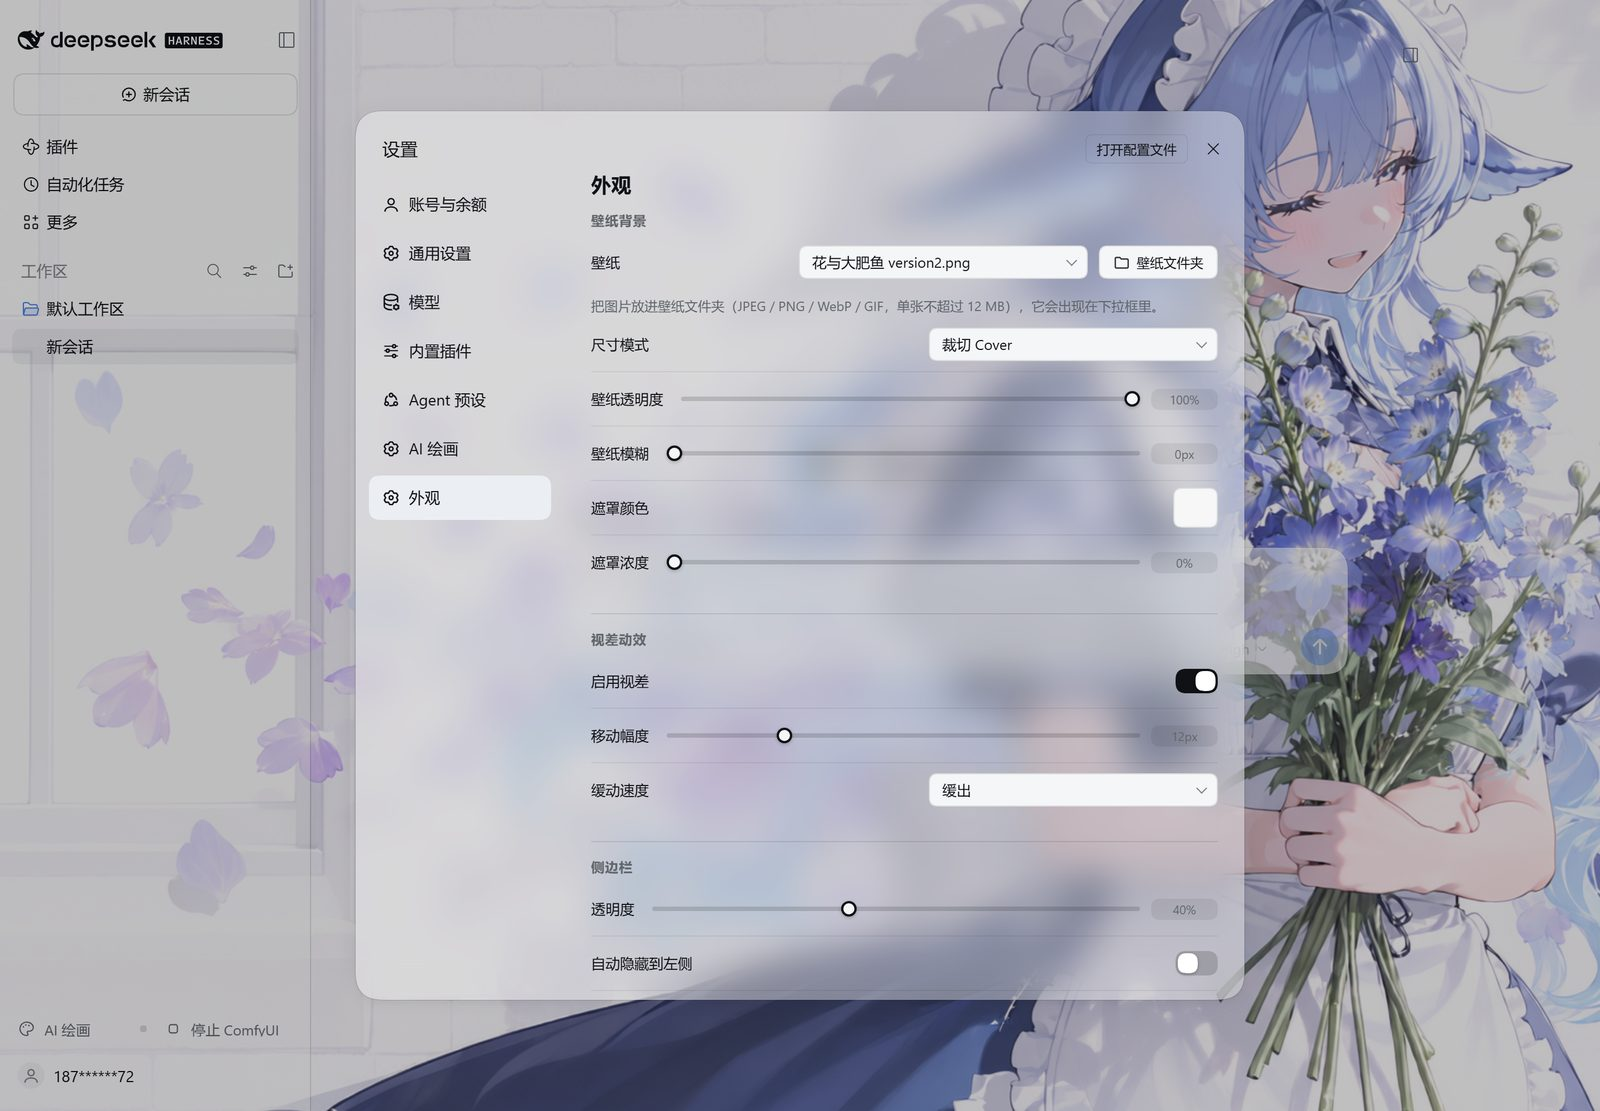
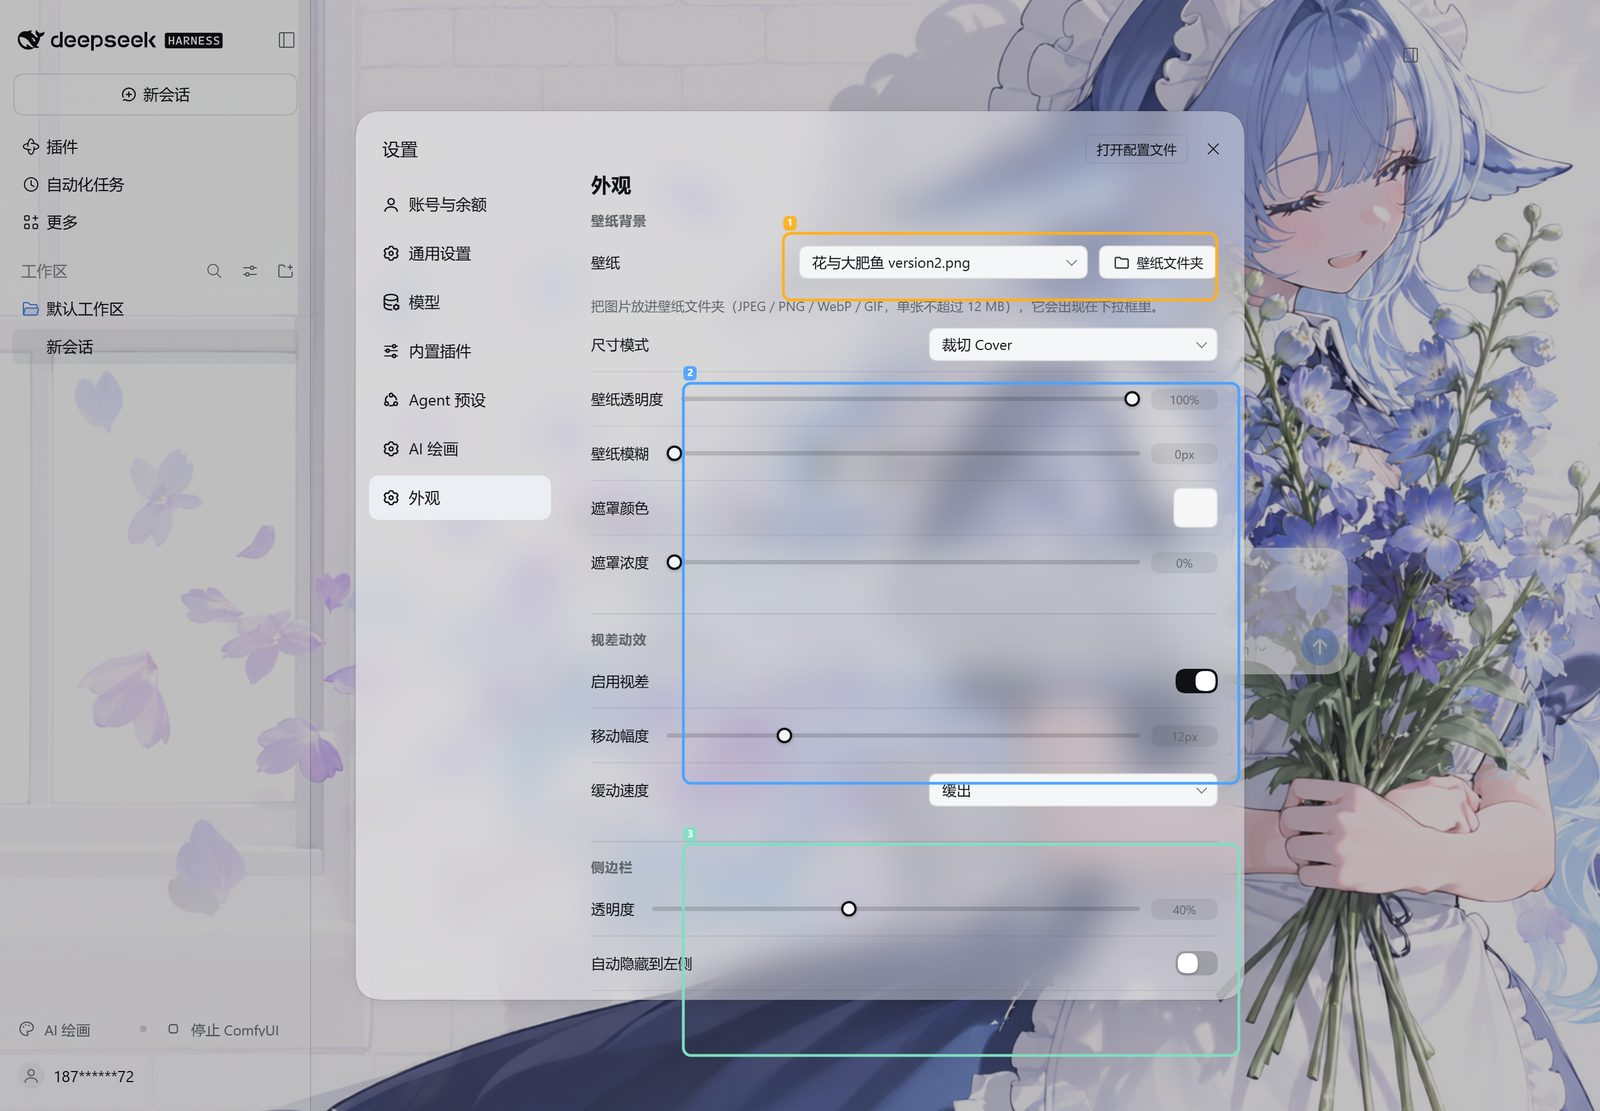
docs: hero image, why-this-plugin comparison and annotated screenshots

diff --git a/README.md b/README.md
@@ -6,6 +6,19 @@ English | [简体中文](README.zh-CN.md)
 
 The DSH web interface ships with one plain look. This bundle adds an "Appearance (外观)" page to Settings where you can put a wallpaper behind the app, make the conversation card, composer and settings panel translucent with a backdrop blur, tune the sidebar, and switch on a pointer-following parallax and an auto-hiding sidebar. It is a local UI bundle: the only server it talks to is your own DSH instance, serving your own images back to the browser.
 
+![dsh-ui-appearance](docs/preview/hero.jpg)
+
+## Why this plugin
+
+Wallpaper and glass effects are easy to add and easy to make a long session stutter. This bundle keeps every effect out of the streaming hot path instead of re-rendering the shell on each token.
+
+| | dsh-ui-appearance | a naive wallpaper layer |
+| --- | --- | --- |
+| Long sessions | debounced full syncs, cheap light syncs, cached measurement, a tooltip observer that ignores its own mutations | re-layout on every streamed token |
+| Sources | a folder you pick, with decoded Chinese names; only images are served | paste a path |
+| Scope | conversation card, composer, settings panel and sidebar tuned separately | one global opacity |
+| Privacy | CSS only, served by your own DSH; no network, no CDN | often loads remote assets |
+
 ## Quick start / 快速开始
 
 **What it is (EN).** A DeepSeek Harness Web bundle that changes how DSH looks: wallpaper layer, translucent glass panels, composer and sidebar styling, pointer parallax and an auto-hiding sidebar. Everything runs locally; custom wallpapers are read from a folder you choose and served back to your own browser.
@@ -30,11 +43,17 @@ The DSH web interface ships with one plain look. This bundle adds an "Appearance
 2. **重启 DSH**，打开 **设置 → 外观**。
 3. 用 **壁纸文件夹** 按钮选目录，或直接使用自带默认壁纸；改动即时生效。
 
+**For agents.** See [AGENTS.md](AGENTS.md) for config keys, defaults and constraints.
+
+## Screenshots
+
 ![Home with a wallpaper and glass panels](docs/preview/home.jpg)
+
+**1** Wallpaper layer behind the whole app; the conversation card, composer and sidebar stay legible on top of it.
 
 ![Appearance settings](docs/preview/settings.jpg)
 
-**For agents.** See [AGENTS.md](AGENTS.md) for config keys, defaults and constraints.
+**1** Wallpaper source and the **壁纸文件夹** button: the page opens your folder instead of asking for a path, and shows decoded names. **2** Transparency, blur, mask and pointer parallax. **3** Sidebar opacity and auto-hide.
 
 ## Features
 
